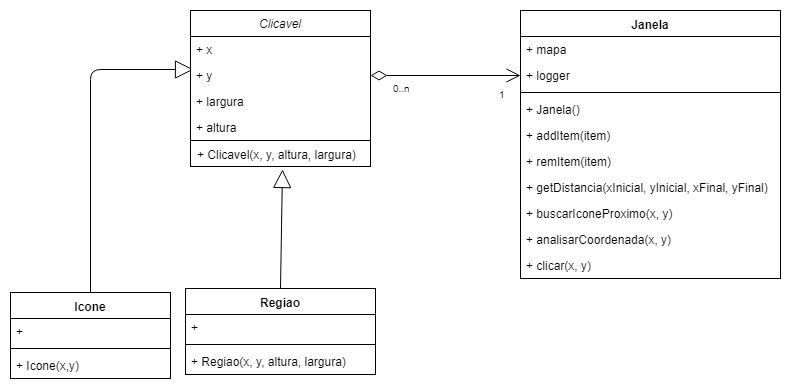
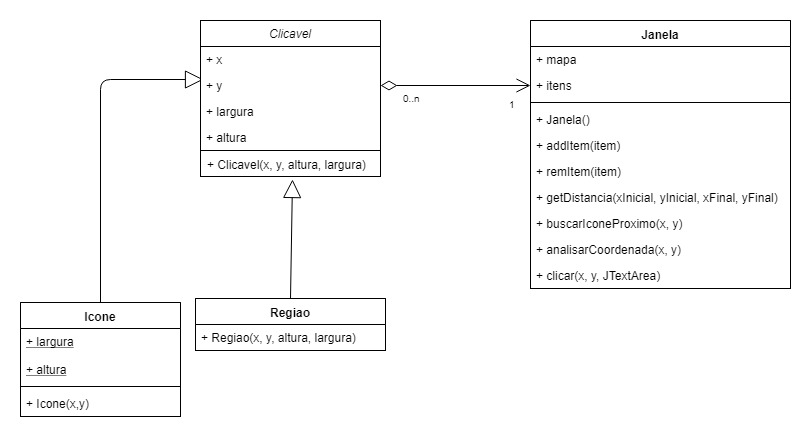
Validações de vazio. Ajuste na UML.

diff --git a/SistemaJanela/src/br/com/sistemajanela/apresentacao/Apresentacao.java b/SistemaJanela/src/br/com/sistemajanela/apresentacao/Apresentacao.java
@@ -665,8 +665,18 @@ public class Apresentacao extends javax.swing.JFrame {
 
     private void cadastroIconeBtTamActionPerformed(java.awt.event.ActionEvent evt) {//GEN-FIRST:event_cadastroIconeBtTamActionPerformed
 
+    	if (cadastroIconeTamanhoAltura.getText().trim().isEmpty()) {
+            JOptionPane.showMessageDialog(this, "Favor informar a altura do icone.");
+            return;
+        }
+
+        if (cadastroIconeTamanhoLargura.getText().trim().isEmpty()) {
+            JOptionPane.showMessageDialog(this, "Favor informar a largura do icone.");
+            return;
+        }
+
         //Conssistência de valores
-        if (Integer.parseInt(cadastroIconeTamanhoAltura.getText()) > 0 && Integer.parseInt(cadastroIconeTamanhoLargura.getText()) > 0) {
+        if (Integer.parseInt(cadastroIconeTamanhoAltura.getText().trim()) > 0 && Integer.parseInt(cadastroIconeTamanhoLargura.getText().trim()) > 0) {
 
             Icone.altura = Integer.parseInt(cadastroIconeTamanhoAltura.getText());
             Icone.largura = Integer.parseInt(cadastroIconeTamanhoLargura.getText());
@@ -696,7 +706,7 @@ public class Apresentacao extends javax.swing.JFrame {
     }//GEN-LAST:event_cadastroIconeBtTamActionPerformed
 
     private void jButton1ActionPerformed(java.awt.event.ActionEvent evt) {//GEN-FIRST:event_jButton1ActionPerformed
-       if(exclusaoComboList != null){
+       if(exclusaoComboList.getSelectedItem() != null){
         janela.remItem((Clicavel)exclusaoComboList.getSelectedItem());
         exclusaoComboList.removeItem(exclusaoComboList.getSelectedItem());
         JOptionPane.showMessageDialog(this, "Exclusão efetuada com sucesso");
